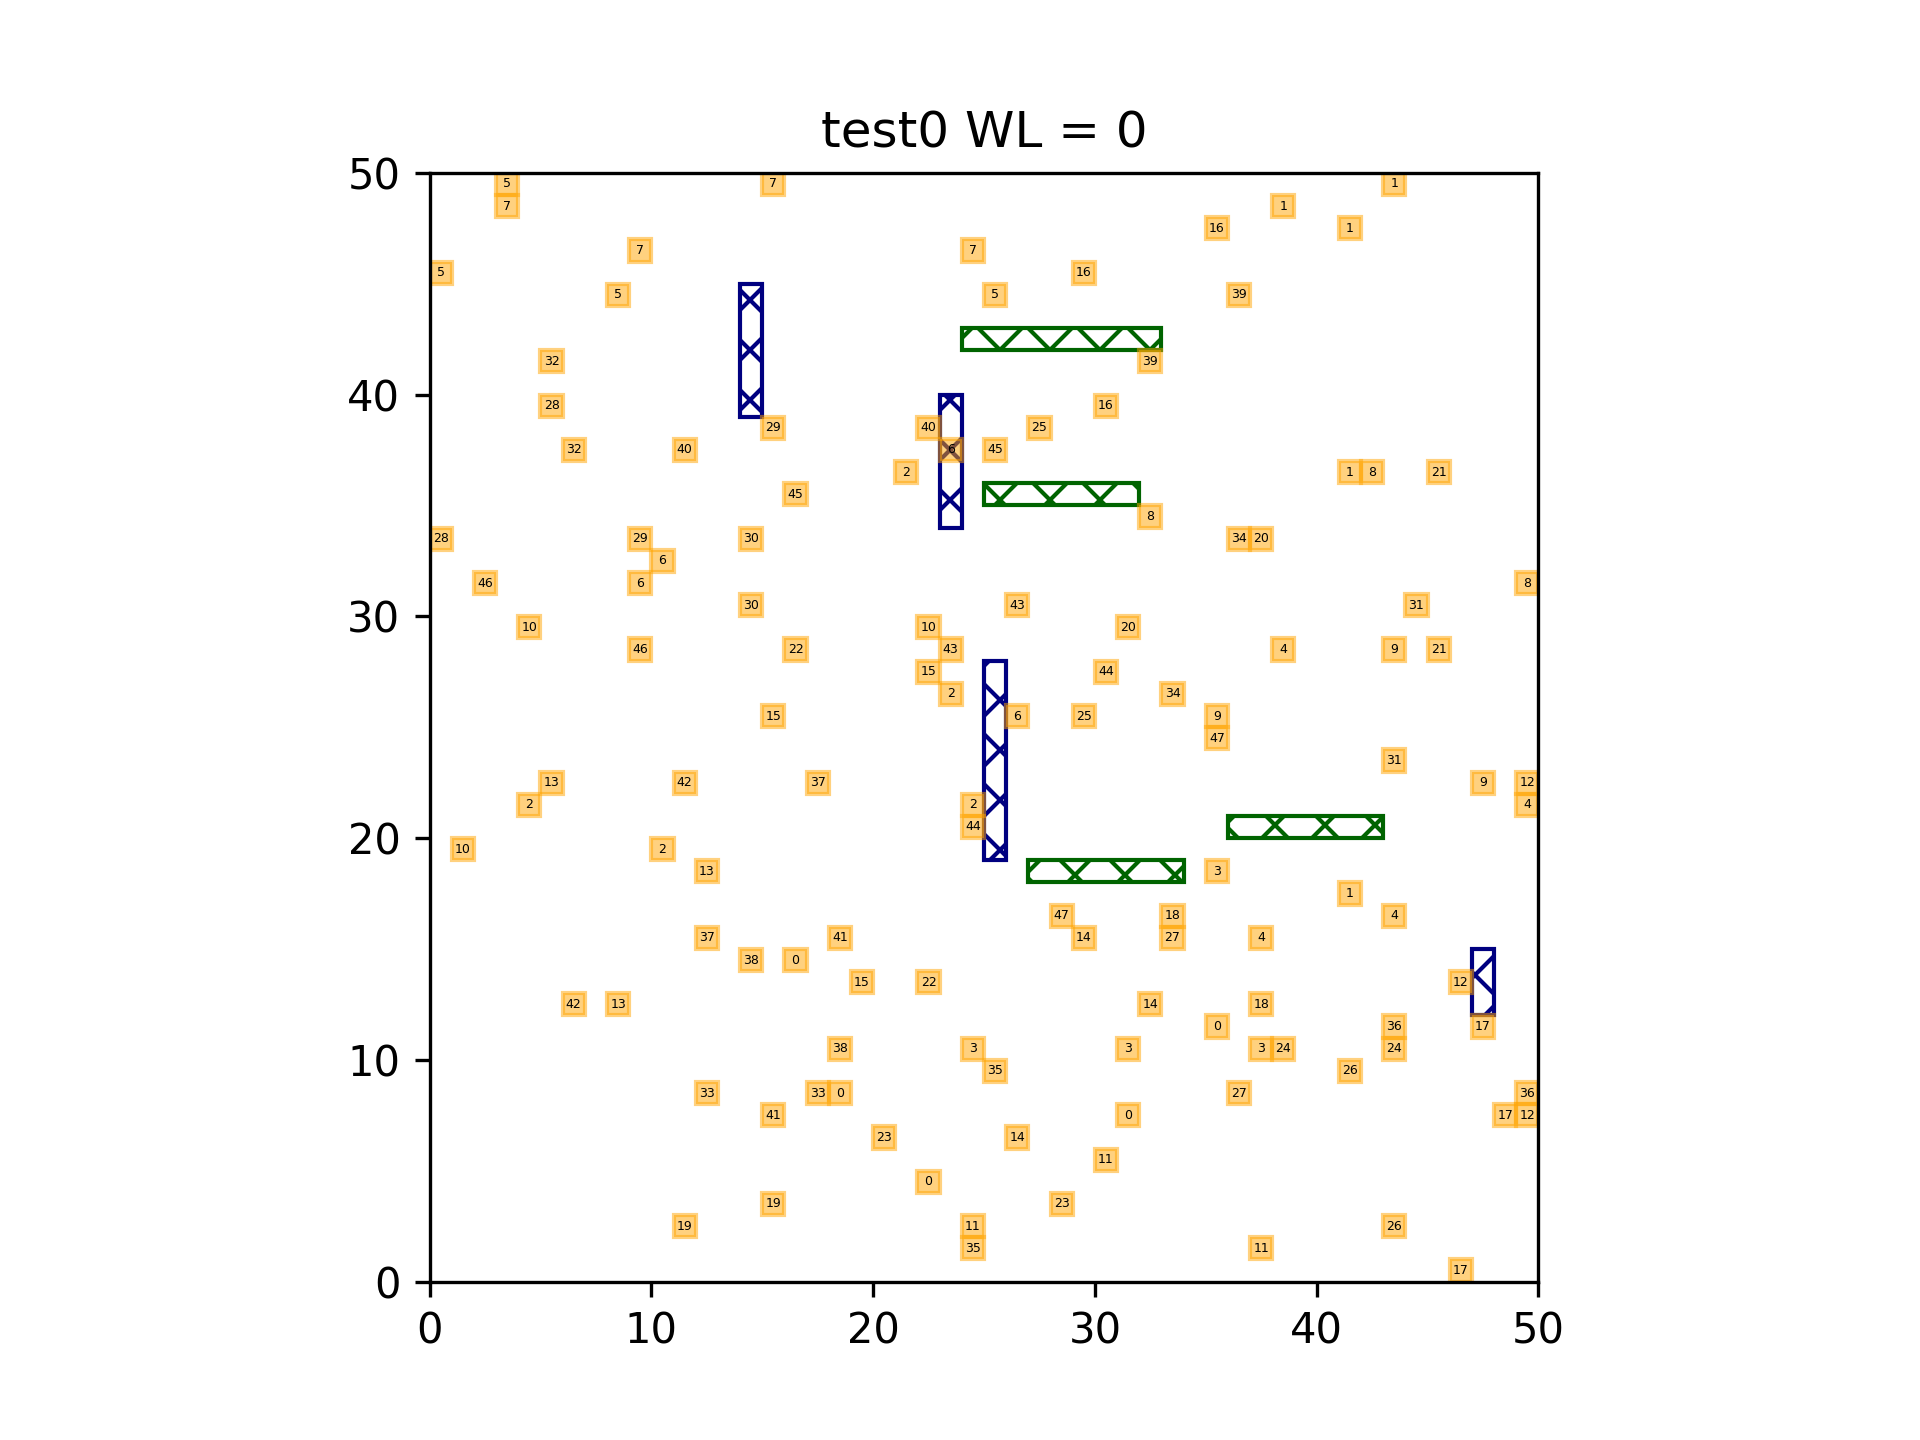
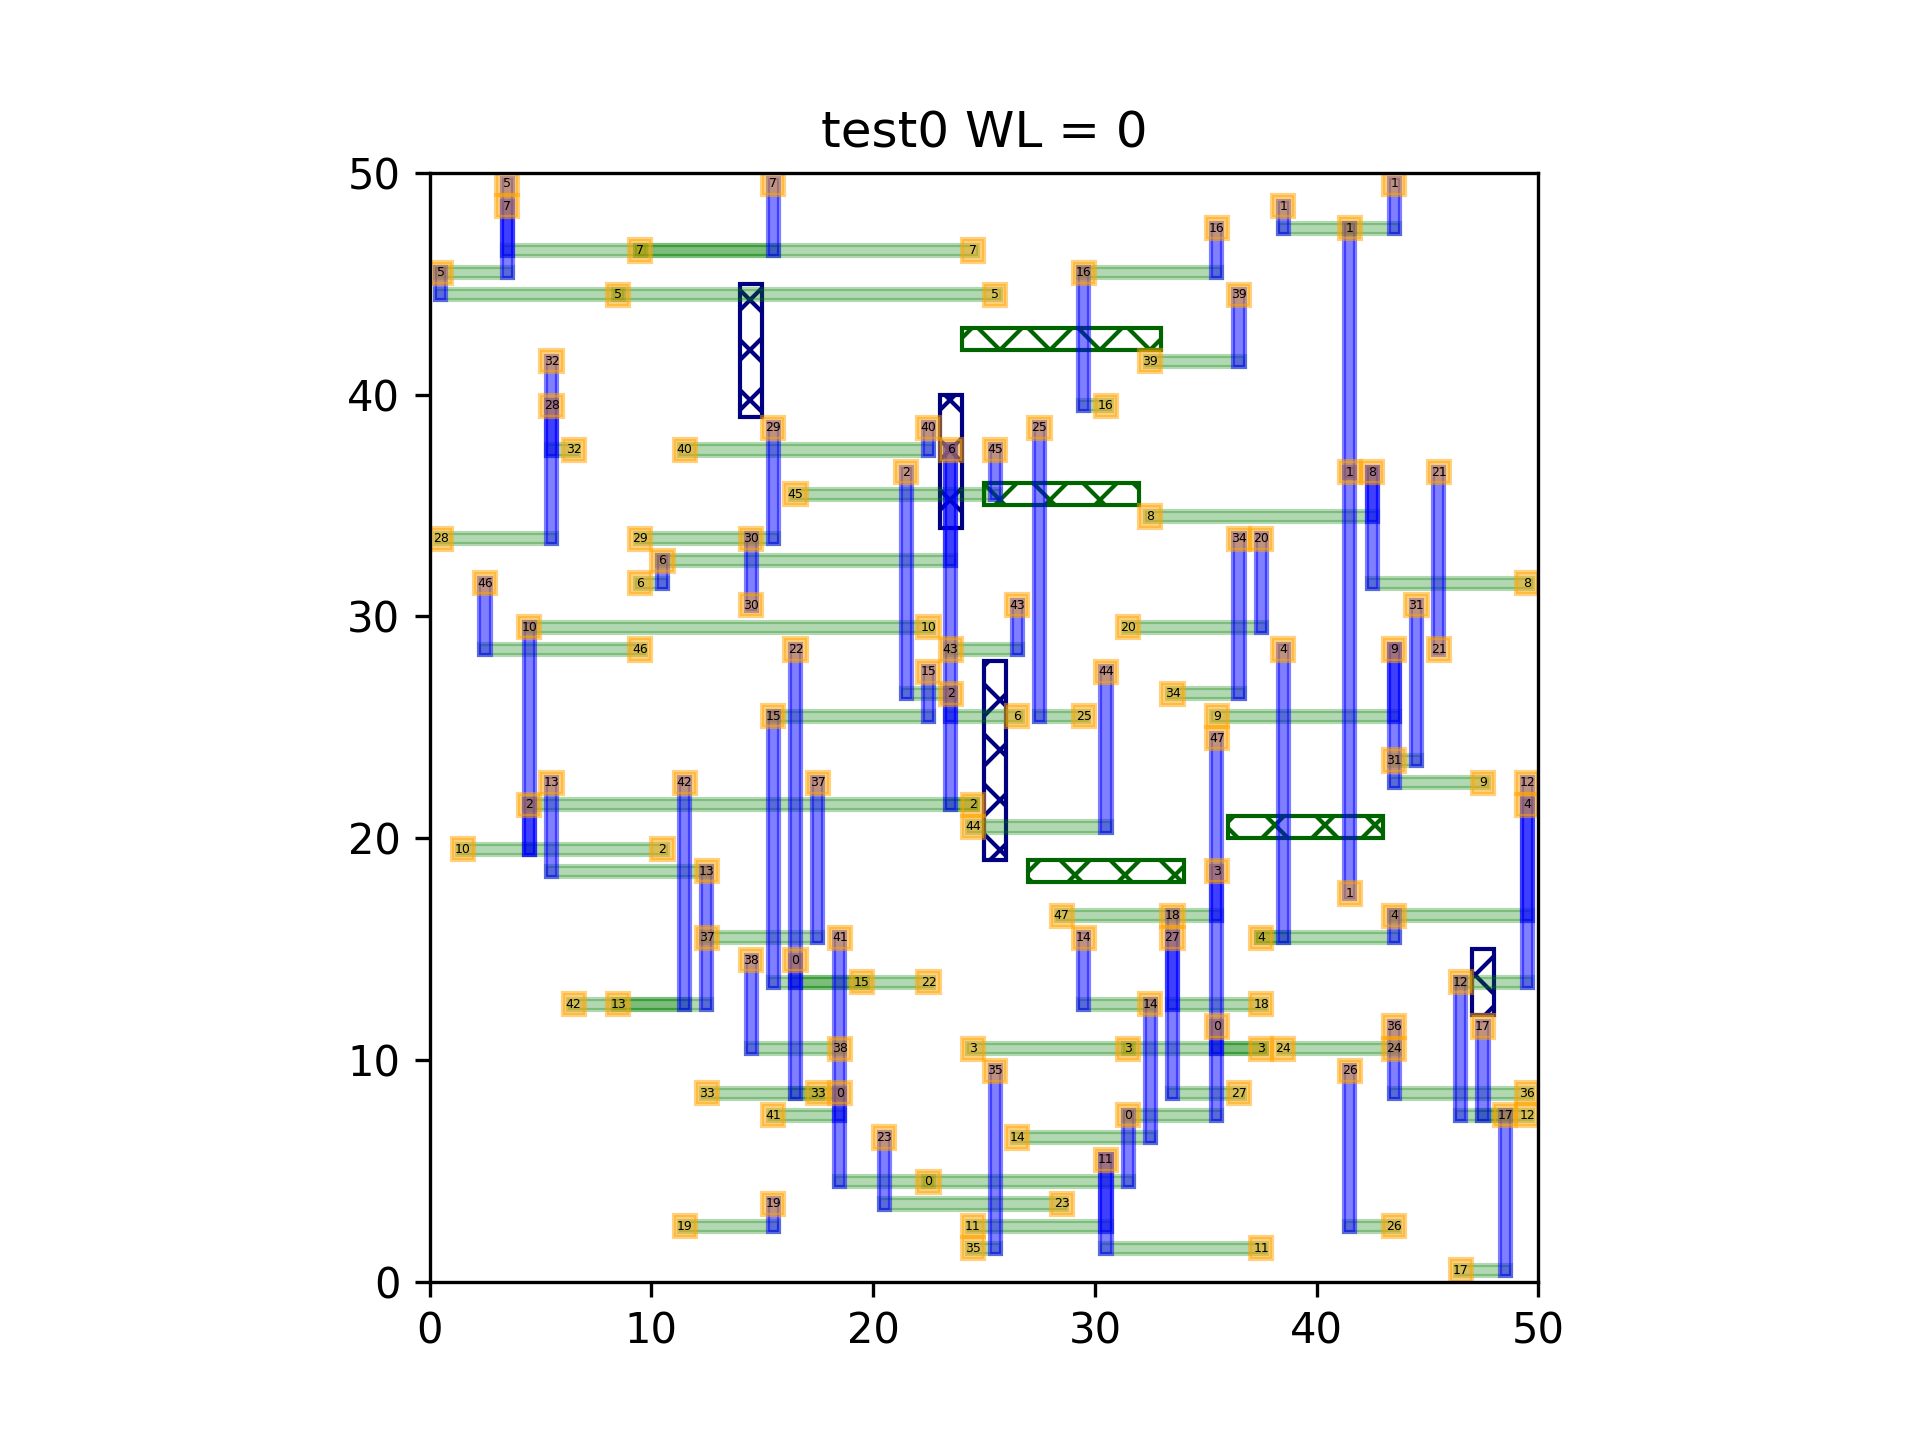
RMST visualize

diff --git a/src/layout.cpp b/src/layout.cpp
@@ -1,0 +1,105 @@
+#include <algorithm>
+#include <iostream>
+#include "layout.hpp"
+class Kruskal{
+public:
+    class Edge{
+    public:
+        int from, to; // In this case is undirected
+        int cost;
+        Edge(){}
+        Edge(int f, int t, int c) : from(f), to(t), cost(c) {}
+        bool operator<(const Edge other){
+            return cost < other.cost;
+        }
+    };
+    Net *net;
+    std::vector<int> parents;
+    std::vector<Kruskal::Edge> edges;
+    Kruskal(){}
+    Kruskal(Net *n, int via_cost, int horizontal_segments_cost, int vertical_segment_cost){
+        net = n;
+        this->parents.assign(n->pins.size(), -1);
+        for(unsigned i = 0; i < n->pins.size(); i++){
+            for(unsigned j = i + 1; j < n->pins.size(); j++){
+                int x_segment, y_segment;
+                int sum_cost = 0;
+                x_segment = std::max(n->pins.at(i).x - n->pins.at(j).x, n->pins.at(j).x - n->pins.at(i).x)
+                                    - std::min(n->pins.at(i).x - n->pins.at(j).x, n->pins.at(j).x - n->pins.at(i).x);
+                y_segment = std::max(n->pins.at(i).y - n->pins.at(j).y, n->pins.at(j).y - n->pins.at(i).y)
+                                    - std::min(n->pins.at(i).y - n->pins.at(j).y, n->pins.at(j).y - n->pins.at(i).y);
+                if(y_segment != 0) sum_cost += 2 * via_cost;
+                sum_cost += x_segment * horizontal_segments_cost + y_segment * vertical_segment_cost;
+                this->edges.emplace_back(i, j, sum_cost);
+            }
+        }
+    }
+
+    int find(int x){
+        return this->parents[x] < 0 ? x : (this->parents[x] = Kruskal::find(this->parents[x]));
+    }
+    bool uni(int x ,int y){
+        int xRoot = Kruskal::find(x), yRoot = Kruskal::find(y);
+        if(xRoot != yRoot){
+            if(this->parents[xRoot] < this->parents[yRoot]){
+                this->parents[xRoot] += this->parents[yRoot];
+                this->parents[yRoot] = xRoot;
+            }
+            else{
+                this->parents[yRoot] += this->parents[xRoot];
+                this->parents[xRoot] = yRoot;	
+            }
+            return true;
+        }
+        else return false;
+    }
+    int cost_rmst(){
+        std::sort(this->edges.begin(), this->edges.end());
+        int ans = 0;
+        unsigned edge_cnt = 0;
+        for(unsigned i = 0; i < this->edges.size(); i++){
+            if(Kruskal::uni(this->edges.at(i).from, this->edges.at(i).to)){
+                ans += this->edges.at(i).cost;
+
+                int from = this->edges.at(i).from, to = this->edges.at(i).to;
+                int x_segment, y_segment;
+                x_segment = std::max(this->net->pins.at(from).x - this->net->pins.at(to).x, this->net->pins.at(to).x - this->net->pins.at(from).x)
+                                    - std::min(this->net->pins.at(from).x - this->net->pins.at(to).x, this->net->pins.at(to).x - this->net->pins.at(from).x);
+                y_segment = std::max(this->net->pins.at(from).y - this->net->pins.at(to).y, this->net->pins.at(to).y - this->net->pins.at(from).y)
+                                    - std::min(this->net->pins.at(from).y - this->net->pins.at(to).y, this->net->pins.at(to).y - this->net->pins.at(from).y);
+                if(y_segment != 0){ 
+                    if(this->net->pins.at(from).y > this->net->pins.at(to).y){
+                        if(this->net->pins.at(from).x < this->net->pins.at(to).x)
+                            this->net->vertical_segments.emplace_back(std::min(this->net->pins.at(from).x, this->net->pins.at(to).x), std::min(this->net->pins.at(from).y, this->net->pins.at(to).y), 1
+                                                        , std::min(this->net->pins.at(from).x, this->net->pins.at(to).x), std::max(this->net->pins.at(from).y, this->net->pins.at(to).y), 1);
+                        else{
+                            this->net->vertical_segments.emplace_back(std::max(this->net->pins.at(from).x, this->net->pins.at(to).x), std::min(this->net->pins.at(from).y, this->net->pins.at(to).y), 1
+                                                        , std::max(this->net->pins.at(from).x, this->net->pins.at(to).x), std::max(this->net->pins.at(from).y, this->net->pins.at(to).y), 1);
+                        }
+                    }
+                    else{
+                        if(this->net->pins.at(from).x < this->net->pins.at(to).x)
+                            this->net->vertical_segments.emplace_back(std::max(this->net->pins.at(from).x, this->net->pins.at(to).x), std::min(this->net->pins.at(from).y, this->net->pins.at(to).y), 1
+                                                        , std::max(this->net->pins.at(from).x, this->net->pins.at(to).x), std::max(this->net->pins.at(from).y, this->net->pins.at(to).y), 1);
+                        else{
+                            this->net->vertical_segments.emplace_back(std::min(this->net->pins.at(from).x, this->net->pins.at(to).x), std::min(this->net->pins.at(from).y, this->net->pins.at(to).y), 1
+                                                        , std::min(this->net->pins.at(from).x, this->net->pins.at(to).x), std::max(this->net->pins.at(from).y, this->net->pins.at(to).y), 1);
+                        }
+                    }
+                }
+                if(x_segment != 0) 
+                    this->net->horizontal_segments.emplace_back(std::min(this->net->pins.at(from).x, this->net->pins.at(to).x), std::min(this->net->pins.at(from).y, this->net->pins.at(to).y), 0
+                                                        , std::max(this->net->pins.at(from).x, this->net->pins.at(to).x), std::min(this->net->pins.at(from).y, this->net->pins.at(to).y), 0);
+                
+                
+                if(++edge_cnt == this->parents.size() - 1) break;
+            }
+        }
+        if(edge_cnt == this->parents.size() - 1) return ans;
+        else return -1;// means can't found spanning tree
+    }
+};
+void Net::rmst_kruskal(int via_cost, int horizontal_segments_cost, int vertical_segment_cost){
+	Kruskal kruskal(this, via_cost, horizontal_segments_cost, vertical_segment_cost);
+    std::cout << "Net id#"<< this->id << " cost of rmst= " << kruskal.cost_rmst() << "\n";
+}

diff --git a/inc/io.hpp b/inc/io.hpp
@@ -113,14 +113,14 @@ void writeLayout(Layout *layout, char const *file_path)
         for(unsigned j = 0; j < layout->netlist.at(i).horizontal_segments.size(); j++){
             out_file << layout->netlist.at(i).horizontal_segments.at(j).start_point.x << " " << layout->netlist.at(i).horizontal_segments.at(j).start_point.y 
                     << " " << layout->netlist.at(i).horizontal_segments.at(j).start_point.z << " ";
-            out_file << layout->netlist.at(i).horizontal_segments.at(j).end_point.x << " " << layout->netlist.at(i).horizontal_segments.at(j).end_point.y + 1
+            out_file << layout->netlist.at(i).horizontal_segments.at(j).end_point.x + 1 << " " << layout->netlist.at(i).horizontal_segments.at(j).end_point.y + 1
                     << " " << layout->netlist.at(i).horizontal_segments.at(j).end_point.z << "\n";
         }
         out_file << "V_segment_num " << layout->netlist.at(i).vertical_segments.size() << "\n";
         for(unsigned j = 0; j < layout->netlist.at(i).vertical_segments.size(); j++){
             out_file << layout->netlist.at(i).vertical_segments.at(j).start_point.x << " " << layout->netlist.at(i).vertical_segments.at(j).start_point.y 
                     << " " << layout->netlist.at(i).vertical_segments.at(j).start_point.z << " ";
-            out_file << layout->netlist.at(i).vertical_segments.at(j).end_point.x + 1 << " " << layout->netlist.at(i).vertical_segments.at(j).end_point.y 
+            out_file << layout->netlist.at(i).vertical_segments.at(j).end_point.x + 1 << " " << layout->netlist.at(i).vertical_segments.at(j).end_point.y + 1
                     << " " << layout->netlist.at(i).vertical_segments.at(j).end_point.z << "\n";
         }
     }

diff --git a/inc/layout.hpp b/inc/layout.hpp
@@ -24,6 +24,8 @@ public:
 };
 class Segment{
 public:
+	// If end_point == 0, means this segment is horizontal, sp.y == ep.y && sp.z == ep.z == 0
+	// else if end_point == 1, means this segment is vertical, sp.x == ep.x && sp.z == ep.z == 1
 	Coordinate3D start_point, end_point;
 	Segment(){}
 	Segment(int _spx, int  _spy, int  _spz, int _epx, int  _epy, int  _epz)
@@ -32,13 +34,15 @@ public:
 };
 class Net{
 public:
+	// For Input
 	int id;
 	std::vector<Coordinate3D> pins;
-
+	// For Ouput
 	std::vector<Coordinate2D> vialist;
 	std::vector<Segment> horizontal_segments;
 	std::vector<Segment> vertical_segments;
-
+	// For Router
+	std::vector<std::pair<int, int>> two_pins;
 	Net(){
 		id = -1;
 		this->pins.resize(0);
@@ -58,12 +62,15 @@ public:
 		// TODO compute the wirelength
 		return 0;
 	}
+
+	void rmst_kruskal(int via_cost, int horizontal_segments_cost, int vertical_segment_cost);
 };
 class Layout{
 public:
+	// For Input
 	int width, height;
 	int num_of_layers = 2;
-	int via_cost = 1;
+	int via_cost = 10;
 	int horizontal_segment_cost = 1, vertical_segment_cost = 1;
 	std::vector<Obstacle> obstacles;
 	std::vector<Net> netlist;

diff --git a/main.cpp b/main.cpp
@@ -11,6 +11,9 @@ int main(int argc, char const *argv[]){
     io::readLayout(&layout, argv[1]);
     std::cout << "Read time: " << timer.getShortTerm() << "\n";
     
+    for(auto &n : layout.netlist) n.rmst_kruskal(layout.via_cost, layout.horizontal_segment_cost, layout.vertical_segment_cost);
+
+
     std::cout << "Write Layout\n"; timer.setShortTerm();
     io::writeLayout(&layout, argv[2]);
     std::cout << "Write time: " << timer.getShortTerm() << "\n";

diff --git a/inc/router.hpp b/inc/router.hpp
@@ -1,14 +1,5 @@
 #pragma once
 #include "layout.hpp"
-class DetailedLayout : public Layout
-{
-public:
-    DetailedLayout() {}
-    DetailedLayout(Layout l) : Layout(l) {
-        
-    }
-    ~DetailedLayout() {}
-};
 class Router
 {
 public:
